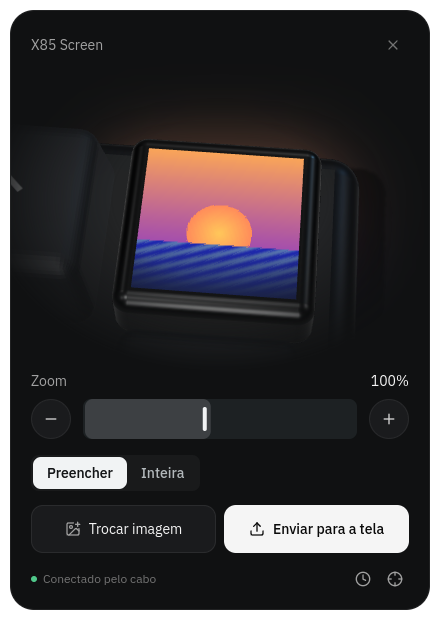
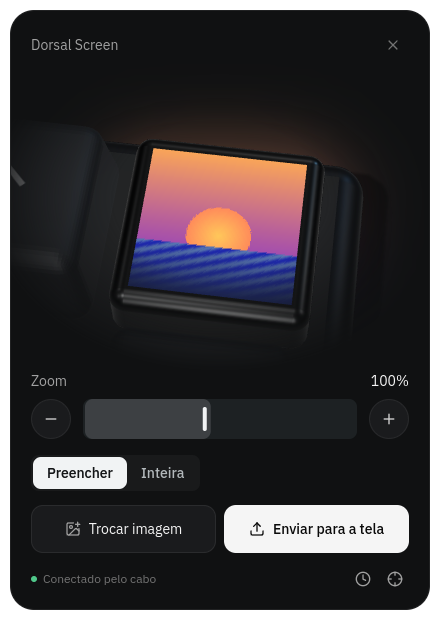
refactor: rename the AppImages and the mini app to Dorsal

diff --git a/src/landing/LandingApp.tsx b/src/landing/LandingApp.tsx
@@ -25,8 +25,8 @@ const VERSION = "0.1.0";
 // Where the AppImages are downloaded from: the site's root by default, or another host
 // (a release page, a CDN) set in VITE_DOWNLOAD_BASE at build time.
 const DOWNLOAD_BASE = (import.meta.env.VITE_DOWNLOAD_BASE ?? "").replace(/\/$/, "");
-const APPIMAGE_FILE = `X85-Configurator-${VERSION}.AppImage`;
-const MINI_FILE = `X85-Screen-${VERSION}.AppImage`;
+const APPIMAGE_FILE = `Dorsal-${VERSION}.AppImage`;
+const MINI_FILE = `Dorsal-Screen-${VERSION}.AppImage`;
 const APPIMAGE = `${DOWNLOAD_BASE}/${APPIMAGE_FILE}`;
 const MINI_APPIMAGE = `${DOWNLOAD_BASE}/${MINI_FILE}`;
 const UDEV =
@@ -343,15 +343,15 @@ function Mini() {
           <h2 className="text-[32px] font-semibold leading-[1.1] tracking-[-0.025em] sm:text-[40px]">{tr("Só quer trocar a imagem? Tem um app só para isso.", "Only want to change the image? There is an app just for that.")}</h2>
           <p className="text-lg text-neutral-400">
             {tr(
-              "O X85 Screen é uma janela pequena com a tela em 3D, o zoom e dois botões: escolher a imagem e enviar.",
-              "X85 Screen is a small window with the screen in 3D, the zoom and two buttons: choose the image and send.",
+              "O Dorsal Screen é uma janela pequena com a tela em 3D, o zoom e dois botões: escolher a imagem e enviar.",
+              "Dorsal Screen is a small window with the screen in 3D, the zoom and two buttons: choose the image and send.",
             )}
           </p>
           <ButtonLink href={MINI_APPIMAGE} variant="outline" size="lg" className="w-fit">
-            <Download className="size-4" /> {tr("Baixar o X85 Screen", "Download X85 Screen")}
+            <Download className="size-4" /> {tr("Baixar o Dorsal Screen", "Download Dorsal Screen")}
           </ButtonLink>
         </div>
-        <img src="/landing/mini.png" alt={tr("O X85 Screen: a tela do teclado em 3D, o zoom e os botões de enviar", "X85 Screen: the keyboard's screen in 3D, the zoom and the send buttons")} loading="lazy" className="mx-auto w-full max-w-[420px]" />
+        <img src="/landing/mini.png" alt={tr("O Dorsal Screen: a tela do teclado em 3D, o zoom e os botões de enviar", "Dorsal Screen: the keyboard's screen in 3D, the zoom and the send buttons")} loading="lazy" className="mx-auto w-full max-w-[420px]" />
       </div>
     </section>
   );
@@ -399,7 +399,7 @@ function Install() {
                     {PRODUCT}
                   </ButtonLink>
                   <ButtonLink href={MINI_APPIMAGE} variant="ghost" size="md">
-                    X85 Screen
+                    Dorsal Screen
                   </ButtonLink>
                 </div>
               </div>

diff --git a/src/mini/MiniApp.tsx b/src/mini/MiniApp.tsx
@@ -1,4 +1,4 @@
-// X85 Screen: a small widget that only edits the keyboard's TFT.
+// Dorsal Screen: a small widget that only edits the keyboard's TFT.
 // Same protocol and upload path as the full configurator, one screen of controls.
 
 import { useEffect, useRef, type ReactNode } from "react";
@@ -30,7 +30,7 @@ export function MiniApp() {
       <main className="relative flex h-[600px] w-[420px] flex-col overflow-hidden rounded-[24px] border border-white/[0.07] bg-[#101112] px-5 pb-4 pt-4 text-neutral-100 select-none">
         {/* Top bar doubles as the window's drag handle. */}
         <header className="relative z-10 flex h-9 items-center justify-between [-webkit-app-region:drag]">
-          <span className="text-sm text-neutral-400">X85 Screen</span>
+          <span className="text-sm text-neutral-400">Dorsal Screen</span>
           {IN_APP && (
             <button
               type="button"

diff --git a/mini.html b/mini.html
@@ -4,7 +4,7 @@
     <meta charset="UTF-8" />
     <meta name="viewport" content="width=device-width, initial-scale=1.0" />
     <link rel="icon" type="image/svg+xml" href="/favicon.svg" />
-    <title>X85 Screen</title>
+    <title>Dorsal Screen</title>
   </head>
   <body class="mini">
     <div id="root"></div>

diff --git a/README.md b/README.md
@@ -31,7 +31,7 @@ npm run dev        # http://localhost:5173, in Chrome, Edge, Chromium or Brave
 
 The X85 Pro is officially configured through **qmk.top**, a website that talks to the keyboard over WebHID, and through a Windows executable. On Linux neither works: the system only lets root open `hidraw` devices. On top of that, the X85's firmware (ID **3451**) is missing from the site's catalog, so the screen editor never shows up.
 
-**Dorsal** reimplements the keyboard's protocol from scratch, through reverse engineering for interoperability, and ships the full configurator in three forms from the same code: a **website** that runs in the browser, an **AppImage** with its own window, and **X85 Screen**, a small window just for the screen.
+**Dorsal** reimplements the keyboard's protocol from scratch, through reverse engineering for interoperability, and ships the full configurator in three forms from the same code: a **website** that runs in the browser, an **AppImage** with its own window, and **Dorsal Screen**, a small window just for the screen.
 
 **Features:**
 
@@ -42,15 +42,15 @@ The X85 Pro is officially configured through **qmk.top**, a website that talks t
 - **3D keyboard:** a model faithful to the product (gradient keycaps, knob, live TFT), with a camera that moves to whatever each section edits.
 - **Two languages:** Portuguese and English, key, function and effect names included.
 
-### X85 Screen
+### Dorsal Screen
 
-<img src="public/landing/mini.png" alt="X85 Screen: the keyboard's screen in 3D, the zoom and the send buttons" width="300" align="right">
+<img src="public/landing/mini.png" alt="Dorsal Screen: the keyboard's screen in 3D, the zoom and the send buttons" width="300" align="right">
 
-Only want to change the picture on the keyboard? **X85 Screen** is a small window that does just that: choose an image or a GIF, frame it on the 3D screen, and send it. It shares the screen editor with the configurator, but skips reading the keyboard's other settings, so it opens faster.
+Only want to change the picture on the keyboard? **Dorsal Screen** is a small window that does just that: choose an image or a GIF, frame it on the 3D screen, and send it. It shares the screen editor with the configurator, but skips reading the keyboard's other settings, so it opens faster.
 
-- **AppImage:** `npm run appimage:mini` builds `release-mini/X85-Screen-<version>.AppImage`.
+- **AppImage:** `npm run appimage:mini` builds `release-mini/Dorsal-Screen-<version>.AppImage`.
 - **Browser:** [`dorsal.cotoo.dev/mini.html`](https://dorsal.cotoo.dev/mini.html), with `?lang=en` or `?lang=pt`.
-- **Details:** [`docs/x85-screen.md`](docs/x85-screen.md).
+- **Details:** [`docs/dorsal-screen.md`](docs/dorsal-screen.md).
 
 <br clear="right">
 
@@ -61,7 +61,7 @@ Only want to change the picture on the keyboard? **X85 Screen** is a small windo
 | [Architecture](docs/architecture.md) | Routes, device layer, transport, screen pipeline, the 3D board, languages, Electron shell |
 | [Development](docs/development.md) | Setup, scripts, environment variables, demo and developer modes, tests |
 | [Deployment](docs/deployment.md) | Publishing on `dorsal.cotoo.dev` and distributing the AppImages |
-| [X85 Screen](docs/x85-screen.md) | The mini app for the TFT |
+| [Dorsal Screen](docs/dorsal-screen.md) | The mini app for the TFT |
 | [Troubleshooting](docs/troubleshooting.md) | Keyboard not found, stalled uploads, slow 3D |
 
 The protocol is documented in [`docs/protocol.md`](docs/protocol.md) (in Portuguese), with every command confirmed against the real keyboard.
@@ -82,7 +82,7 @@ The protocol is documented in [`docs/protocol.md`](docs/protocol.md) (in Portugu
 1. **Access rule:** copy `udev/70-attack-shark-x85.rules` to `/etc/udev/rules.d/`, reload udev and replug the cable. On Fedora Silverblue `/etc` is writable; no rpm-ostree needed.
 2. **Dependencies:** `npm install` (Node 22 or newer).
 3. **Website:** `npm run dev` and open the address in a browser with WebHID.
-4. **AppImage:** `npm run appimage`, then `chmod +x release/X85-Configurator-0.1.0.AppImage` and open the file.
+4. **AppImage:** `npm run appimage`, then `chmod +x release/Dorsal-0.1.0.AppImage` and open the file.
 
 </details>
 

diff --git a/README.pt.md b/README.pt.md
@@ -31,7 +31,7 @@ npm run dev        # http://localhost:5173, no Chrome, Edge, Chromium ou Brave
 
 O X85 Pro é configurado oficialmente pelo **qmk.top**, um site que fala com o teclado via WebHID, e por um executável de Windows. No Linux, nenhum dos dois funciona: o sistema só deixa o root abrir os dispositivos `hidraw`. Além disso, o firmware do X85 (ID **3451**) não está no catálogo do site, e o editor da tela nem aparece.
 
-O **Dorsal** reimplementa o protocolo do teclado do zero, a partir de engenharia reversa para interoperabilidade, e entrega o configurador completo em três formatos com o mesmo código: um **site** que roda no navegador, um **AppImage** com janela própria e o **X85 Screen**, uma janela pequena só para a tela.
+O **Dorsal** reimplementa o protocolo do teclado do zero, a partir de engenharia reversa para interoperabilidade, e entrega o configurador completo em três formatos com o mesmo código: um **site** que roda no navegador, um **AppImage** com janela própria e o **Dorsal Screen**, uma janela pequena só para a tela.
 
 **Funcionalidades:**
 
@@ -42,15 +42,15 @@ O **Dorsal** reimplementa o protocolo do teclado do zero, a partir de engenharia
 - **Teclado em 3D:** modelo fiel ao produto (degradê das teclas, knob, TFT ao vivo), com uma câmera que vai até o que cada seção edita.
 - **Dois idiomas:** português e inglês, incluindo os nomes das teclas, funções e efeitos.
 
-### X85 Screen
+### Dorsal Screen
 
-<img src="public/landing/mini.png" alt="X85 Screen: a tela do teclado em 3D, o zoom e os botões de enviar" width="300" align="right">
+<img src="public/landing/mini.png" alt="Dorsal Screen: a tela do teclado em 3D, o zoom e os botões de enviar" width="300" align="right">
 
-Só quer trocar a imagem do teclado? O **X85 Screen** é uma janela pequena que faz só isso: escolher uma imagem ou um GIF, enquadrar na tela em 3D e enviar. Ele usa o mesmo editor de tela do configurador, mas não lê as outras configurações do teclado, então abre mais rápido.
+Só quer trocar a imagem do teclado? O **Dorsal Screen** é uma janela pequena que faz só isso: escolher uma imagem ou um GIF, enquadrar na tela em 3D e enviar. Ele usa o mesmo editor de tela do configurador, mas não lê as outras configurações do teclado, então abre mais rápido.
 
-- **AppImage:** `npm run appimage:mini` gera `release-mini/X85-Screen-<versão>.AppImage`.
+- **AppImage:** `npm run appimage:mini` gera `release-mini/Dorsal-Screen-<versão>.AppImage`.
 - **Navegador:** [`dorsal.cotoo.dev/mini.html`](https://dorsal.cotoo.dev/mini.html), com `?lang=pt` ou `?lang=en`.
-- **Detalhes:** [`docs/x85-screen.md`](docs/x85-screen.md) (em inglês).
+- **Detalhes:** [`docs/dorsal-screen.md`](docs/dorsal-screen.md) (em inglês).
 
 <br clear="right">
 
@@ -63,7 +63,7 @@ Os guias estão em inglês:
 | [Arquitetura](docs/architecture.md) | Rotas, camada do dispositivo, transporte, envio de imagens, o teclado 3D, idiomas, Electron |
 | [Desenvolvimento](docs/development.md) | Ambiente, scripts, variáveis, modos demonstração e desenvolvedor, testes |
 | [Publicação](docs/deployment.md) | Publicar em `dorsal.cotoo.dev` e distribuir os AppImages |
-| [X85 Screen](docs/x85-screen.md) | O app pequeno para a tela |
+| [Dorsal Screen](docs/dorsal-screen.md) | O app pequeno para a tela |
 | [Problemas comuns](docs/troubleshooting.md) | Teclado não encontrado, envio parado, 3D lento |
 
 O protocolo está documentado em [`docs/protocol.md`](docs/protocol.md), com cada comando confirmado em leituras do teclado real.
@@ -84,7 +84,7 @@ O protocolo está documentado em [`docs/protocol.md`](docs/protocol.md), com cad
 1. **Regra de acesso:** copie `udev/70-attack-shark-x85.rules` para `/etc/udev/rules.d/`, recarregue o udev e reconecte o cabo. No Fedora Silverblue o `/etc` é gravável; não precisa de rpm-ostree.
 2. **Dependências:** `npm install` (Node 22 ou mais novo).
 3. **Site:** `npm run dev` e abra o endereço num navegador com WebHID.
-4. **AppImage:** `npm run appimage`, depois `chmod +x release/X85-Configurator-0.1.0.AppImage` e abra o arquivo.
+4. **AppImage:** `npm run appimage`, depois `chmod +x release/Dorsal-0.1.0.AppImage` e abra o arquivo.
 
 </details>
 

diff --git a/docs/dorsal-screen.md b/docs/dorsal-screen.md
@@ -1,14 +1,14 @@
-# X85 Screen
+# Dorsal Screen
 
-X85 Screen is a small window that only does one thing: put an image or a GIF on the X85 Pro's 0.85" TFT. It is for when you want to change the picture without opening the full configurator.
+Dorsal Screen is a small window that only does one thing: put an image or a GIF on the X85 Pro's 0.85" TFT. It is for when you want to change the picture without opening the full configurator.
 
-<p align="center"><img src="../public/landing/mini.png" alt="X85 Screen: the keyboard's screen in 3D, the zoom and the send buttons" width="420"></p>
+<p align="center"><img src="../public/landing/mini.png" alt="Dorsal Screen: the keyboard's screen in 3D, the zoom and the send buttons" width="420"></p>
 
 ## Opening it
 
 | Where | How |
 | --- | --- |
-| AppImage | `release-mini/X85-Screen-<version>.AppImage` (built with `npm run appimage:mini`) |
+| AppImage | `release-mini/Dorsal-Screen-<version>.AppImage` (built with `npm run appimage:mini`) |
 | Browser | [`dorsal.cotoo.dev/mini.html`](https://dorsal.cotoo.dev/mini.html), in Chrome, Edge, Chromium or Brave |
 | Language | The system's; `?lang=en` or `?lang=pt` in the browser |
 | Without a keyboard | `?demo` in the browser, or `X85_DEMO=1` for the AppImage |
@@ -27,7 +27,7 @@ Before you choose anything, the 3D screen shows the last image you sent, or the 
 
 ## How it relates to the configurator
 
-X85 Screen and the configurator's **Screen** section share the same code (`src/screen/useScreenEditor.ts`), so they frame and send images the same way. The mini app connects without reading the keyboard's other settings, which is why it opens faster.
+Dorsal Screen and the configurator's **Screen** section share the same code (`src/screen/useScreenEditor.ts`), so they frame and send images the same way. The mini app connects without reading the keyboard's other settings, which is why it opens faster.
 
 | Piece | File |
 | --- | --- |

diff --git a/docs/deployment.md b/docs/deployment.md
@@ -22,11 +22,11 @@ The site lives at **[dorsal.cotoo.dev](https://dorsal.cotoo.dev)**. It is a stat
 ## The AppImages
 
 ```bash
-npm run appimage        # release/X85-Configurator-<version>.AppImage
-npm run appimage:mini   # release-mini/X85-Screen-<version>.AppImage
+npm run appimage        # release/Dorsal-<version>.AppImage
+npm run appimage:mini   # release-mini/Dorsal-Screen-<version>.AppImage
 ```
 
-Each is about 135 MB. The landing page links to `<VITE_DOWNLOAD_BASE>/X85-Configurator-<version>.AppImage` and `<VITE_DOWNLOAD_BASE>/X85-Screen-<version>.AppImage`:
+Each is about 135 MB. The landing page links to `<VITE_DOWNLOAD_BASE>/Dorsal-<version>.AppImage` and `<VITE_DOWNLOAD_BASE>/Dorsal-Screen-<version>.AppImage`:
 
 - **On a release page (recommended)**: attach both files to a GitHub release and set `VITE_DOWNLOAD_BASE` to its download URL, such as `https://github.com/<user>/dorsal/releases/download/v0.1.0`. Large binaries stay out of the site and of the repository.
 - **On the site itself**: leave `VITE_DOWNLOAD_BASE` empty and publish the files at the site's root. Check your host's limit on file size first.
@@ -37,7 +37,7 @@ When the version changes, update `version` in `package.json` and `VERSION` in `s
 
 - [ ] `/` and `/en` open the landing page in each language.
 - [ ] `/app/tela` and `/en/app/keys` open the configurator; `?demo` works without a keyboard.
-- [ ] `/mini.html` opens X85 Screen.
+- [ ] `/mini.html` opens Dorsal Screen.
 - [ ] The download buttons reach both AppImages.
 - [ ] `/robots.txt` and `/sitemap.xml` name `dorsal.cotoo.dev`.
 - [ ] A shared link shows the preview image (`/og.png`).

diff --git a/docs/architecture.md b/docs/architecture.md
@@ -3,14 +3,14 @@
 Dorsal is one web application with two entry points, packaged by Electron for the desktop:
 
 - **`index.html`** — the site: the landing page and the configurator, chosen by the route.
-- **`mini.html`** — X85 Screen, the mini app for the TFT ([details](x85-screen.md)).
+- **`mini.html`** — Dorsal Screen, the mini app for the TFT ([details](dorsal-screen.md)).
 
 ```mermaid
 flowchart LR
     subgraph UI["Pages"]
         L["Landing<br/>src/landing"]
         C["Configurator<br/>src/app"]
-        M["X85 Screen<br/>src/mini"]
+        M["Dorsal Screen<br/>src/mini"]
     end
     C --> D["DeviceProvider<br/>src/device.tsx"]
     M --> D
@@ -31,7 +31,7 @@ flowchart LR
 | `/` | `/en` | Landing page |
 | `/app/tela`, `/app/teclas`, `/app/iluminacao`, `/app/sistema` | `/en/app/screen`, `/keys`, `/lighting`, `/system` | Configurator |
 | `/app/log` | `/en/app/log` | Packet log (developer mode only) |
-| `/mini.html` | `/mini.html?lang=en` | X85 Screen |
+| `/mini.html` | `/mini.html?lang=en` | Dorsal Screen |
 
 Navigation uses the History API. Switching language crossfades with the View Transitions API and keeps the scroll position; moving between pages crossfades and starts at the top.
 

diff --git a/docs/README.md b/docs/README.md
@@ -7,7 +7,7 @@ Dorsal is an open configurator for the Attack Shark X85 Pro, served at **[dorsal
 | [Architecture](architecture.md) | How the pieces fit: routes, the device layer, the transport, the screen pipeline, the 3D board, languages and the Electron shell |
 | [Development](development.md) | Setting up, scripts, environment variables, demo and developer modes, tests and conventions |
 | [Deployment](deployment.md) | Publishing the site on `dorsal.cotoo.dev` and distributing the AppImages |
-| [X85 Screen](x85-screen.md) | The mini app that only edits the keyboard's TFT |
+| [Dorsal Screen](dorsal-screen.md) | The mini app that only edits the keyboard's TFT |
 | [Troubleshooting](troubleshooting.md) | The keyboard is not found, uploads stall, the 3D is slow, and other known problems |
 | [Protocol](protocol.md) | The keyboard's HID protocol, command by command (in Portuguese) |
 

diff --git a/docs/development.md b/docs/development.md
@@ -23,8 +23,8 @@ Then unplug and replug the keyboard.
 | `npm test` | Vitest: protocol, layout, factory key map and screen conversion |
 | `npm run typecheck` | Type check only |
 | `npm run electron` | Build and open the configurator in an Electron window |
-| `npm run appimage` | `release/X85-Configurator-<version>.AppImage` |
-| `npm run appimage:mini` | `release-mini/X85-Screen-<version>.AppImage` |
+| `npm run appimage` | `release/Dorsal-<version>.AppImage` |
+| `npm run appimage:mini` | `release-mini/Dorsal-Screen-<version>.AppImage` |
 
 ## Environment
 

diff --git a/docs/troubleshooting.md b/docs/troubleshooting.md
@@ -38,8 +38,8 @@ Each GIF frame is composited over the previous ones, honouring the "restore to b
 
 ## The AppImage does not start
 
-- Make it executable: `chmod +x X85-Configurator-<version>.AppImage`.
-- AppImages need FUSE. If yours does not have it, run `./X85-Configurator-<version>.AppImage --appimage-extract-and-run`.
+- Make it executable: `chmod +x Dorsal-<version>.AppImage`.
+- AppImages need FUSE. If yours does not have it, run `./Dorsal-<version>.AppImage --appimage-extract-and-run`.
 
 ## The last image is not shown
 
